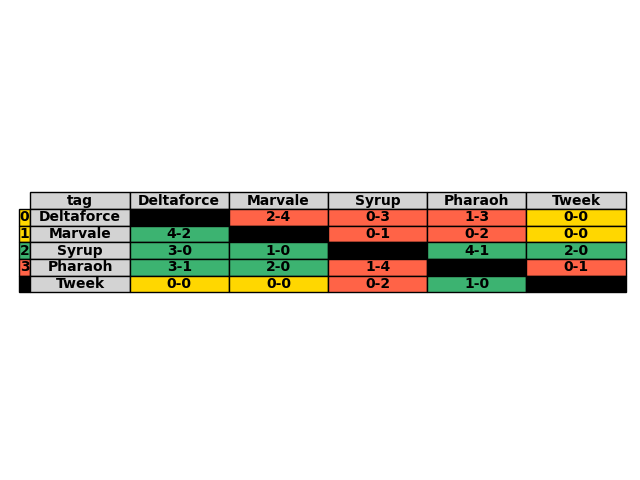
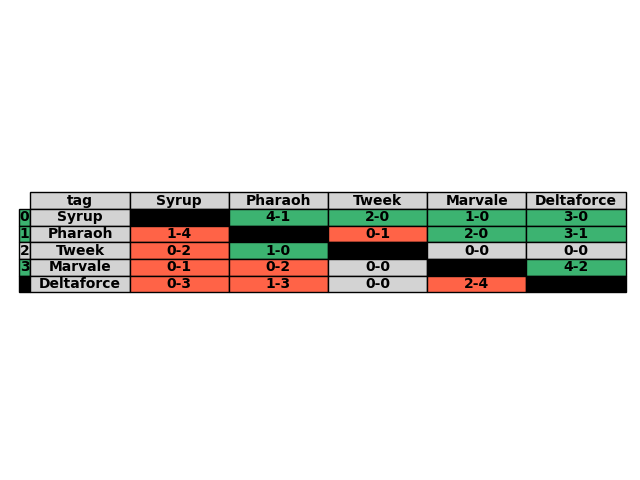
h2h updated
fixed how the h2h chart works and now sorts it

Changed region(s): [[0.0312, 0.4062, 1.0, 0.625], [0.2188, 0.4062, 0.3438, 0.4375]]

diff --git a/do_h2h.py b/do_h2h.py
@@ -3,32 +3,88 @@ import pandas as pd
 import matplotlib.pyplot as plt
 from pandas.plotting import table
 from matplotlib.table import Table
+import re
 f = open('playersTest.json')
 data = json.load(f)
 df = pd.read_csv('h2h.csv')
+"""for tag in data:
+    if data[tag]['eligible']:
+        df[tag] = tag
 for tag in data:
-    df[tag] = tag
-for tag in data:
-    new_row = {'tag': tag} 
-    df = df._append(new_row, ignore_index=True)
+    if data[tag]['eligible']:
+        new_row = {'tag': tag} 
+        df = df._append(new_row, ignore_index=True)
 print(df)
 df.to_csv('h2h.csv', index=False)
+def add(data, tag, opponent):
+    try:
+        matching_entry_wins = next(entry for entry in data[tag]['wins'] if entry['tag'] == opponent)
+        numOfWins = matching_entry_wins['numOfWins']
+    except:
+        numOfWins=0
+    try:
+        matching_entry_losses = next(entry for entry in data[tag]['losses'] if entry['tag'] == opponent)
+        numOfLosses = matching_entry_losses['numOfLosses']
+    except:
+        numOfLosses=0
+    return numOfWins,numOfLosses
+
 for index, row in df.iterrows():
     tag = row.iloc[0]
     for opponent, h2h in zip(df.columns[1:], row.iloc[1:]):
         if opponent != tag:
-            try:
-                matching_entry_wins = next(entry for entry in data[tag]['wins'] if entry['tag'] == opponent)
-                numOfWins = matching_entry_wins['numOfWins']
-            except:
-                numOfWins = 0
-            try:
-                matching_entry_losses = next(entry for entry in data[tag]['losses'] if entry['tag'] == opponent)
-                numOfLosses = matching_entry_losses['numOfLosses']
-            except:
-                numOfLosses = 0
+            numOfWins, numOfLosses = add(data, tag, opponent)
+            for alt in data[opponent]['altTags']:
+                if opponent not in alt:
+                    numOfWinsAlt, numOfLossesAlt = add(data, tag, opponent)
+                    numOfWins+=numOfWinsAlt
+                    numOfWins+=numOfLossesAlt
             newH2H = str(numOfWins)+"-"+str(numOfLosses)
-            df.at[index, opponent] = newH2H
+            df.at[index, opponent] = newH2H"""
+first_col = df['tag']
+sorted_cols_df = df.drop(columns=['tag'])
+# Function to extract the total number of losing h2hs from a col
+def calculate_h2hs_difference(col):
+    if pd.notna(col):
+        winning_count, losing_count = find_h2hs(col)
+        if(winning_count > losing_count):
+            return 1
+        elif(winning_count < losing_count):
+            return -1
+        else:
+            return 0
+    return 0
+
+def find_h2hs(col):
+    h2hs = re.findall(r'(\d+)-(\d+)', col)
+    winning_count = sum(int(win[0] > win[1]) for win in h2hs)
+    losing_count = sum(int(loss[0] < loss[1]) for loss in h2hs)
+    return winning_count,losing_count
+
+# Calculate the total number of losing h2hs for each column
+losing_h2hs_counts = sorted_cols_df.map(calculate_h2hs_difference).sum()
+# Reorder columns based on the total number of losing h2hs
+sorted_columns = losing_h2hs_counts.sort_values().index.tolist()
+sorted_cols_df = sorted_cols_df[sorted_columns]
+# Function to calculate the difference between winning and losing h2hs for a row
+def calculate_h2hs_difference(row):
+    winloss_count = 0
+    for cell in row:
+        if pd.notna(cell):
+            winning_count, losing_count = find_h2hs(cell)
+            if(winning_count > losing_count):
+                winloss_count-=1
+            elif(winning_count < losing_count):
+                winloss_count+=1
+    return winloss_count
+# Calculate the difference between winning and losing h2hs for each row
+h2hs_difference = sorted_cols_df.apply(calculate_h2hs_difference, axis=1)
+# Reorder rows based on the difference between winning and losing h2hs
+sorted_rows = h2hs_difference.sort_values().index.tolist()
+sorted_cols_df = sorted_cols_df.loc[sorted_rows]
+sorted_cols_df.insert(0, 'tag', first_col)
+sorted_cols_df.reset_index(drop=True, inplace=True)
+df = sorted_cols_df
 df = df.astype(object)
 df.to_csv('h2h.csv', index=False)
 def color_cells(h2h):
@@ -41,14 +97,11 @@ def color_cells(h2h):
         return "mediumseagreen"
     elif score1 > score0:
         return "tomato"
-    else:
+    elif score1 == score0 and score1 != 0:
         return "gold"
+    else:
+        return "lightgray"
     
-
-
-
-
-
 fig, ax = plt.subplots()
 ax.axis('off')
 # Plot the DataFrame as a table with colored cells
